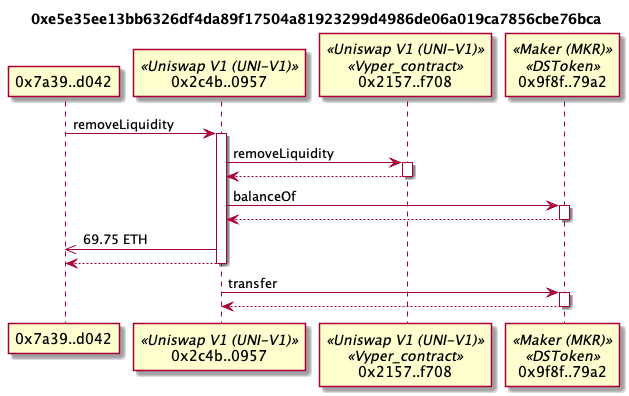
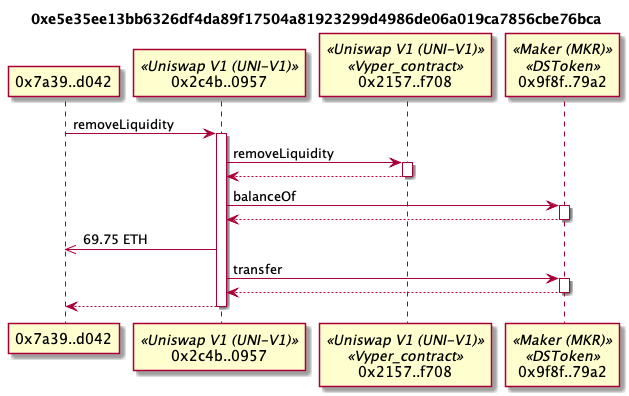
Fixed extra return after value transfer

diff --git a/src/ts/__tests__/plantUmlGenerator.test.ts b/src/ts/__tests__/plantUmlGenerator.test.ts
@@ -44,8 +44,7 @@ describe("Plant UML generator", () => {
     const plantUml = genParticipants(testContracts)
     console.log(plantUml)
     expect(plantUml).toEqual(
-      "\n" +
-        'participant "0x0000..1111" as 00001111\n' +
+      '\nparticipant "0x0000..1111" as 00001111 \n' +
         'participant "0x1111..2222" as 11112222 <<KyberNetworkProxy>>\n' +
         'participant "0x2222..3333" as 22223333 <<KyberNetwork>>\n' +
         'participant "0x3333..4444" as 33334444 <<Tether USD>>\n'
@@ -394,6 +393,54 @@ describe("Plant UML generator", () => {
           "33334444 -> 22223333: third\n" +
           "activate 22223333\n" +
           "return\n" +
+          "return\n" +
+          "return\n"
+      )
+    })
+    test("0->1->>0 1->2", () => {
+      const messages: Message[] = [
+        {
+          ...baseMessage,
+          from: "0x0000324fd7df8b2a969969bcc3663d74f0581111",
+          to: "0x11116FECD516Ecc3849DAf6845e3EC8680872222",
+          callDepth: 0,
+          payload: {
+            ...basePayload,
+            funcName: "first call"
+          }
+        },
+        {
+          ...baseMessage,
+          from: "0x11116FECD516Ecc3849DAf6845e3EC8680872222",
+          to: "0x0000324fd7df8b2a969969bcc3663d74f0581111",
+          callDepth: 1,
+          id: 1,
+          payload: {
+            ...basePayload
+          },
+          type: MessageType.Value,
+          value: BigInt(1100000000000000000)
+        },
+        {
+          ...baseMessage,
+          from: "0x11116FECD516Ecc3849DAf6845e3EC8680872222",
+          to: "0x22226FECD516Ecc3849DAf6845e3EC8680873333",
+          callDepth: 1,
+          id: 2,
+          payload: {
+            ...basePayload,
+            funcName: "third call"
+          }
+        }
+      ]
+      const plantUml = genMessages(messages)
+      console.log(plantUml)
+      expect(plantUml).toEqual(
+        "\n00001111 -> 11112222: first call\n" +
+          "activate 11112222\n" +
+          "11112222 ->> 00001111: 1.10 ETH\n" +
+          "11112222 -> 22223333: third call\n" +
+          "activate 22223333\n" +
           "return\n" +
           "return\n"
       )

diff --git a/src/ts/plantUmlGenerator.ts b/src/ts/plantUmlGenerator.ts
@@ -81,6 +81,7 @@ export const genMessages = (
         }
       }
     }
+
     if (
       message.type === MessageType.Call ||
       message.type === MessageType.Create
@@ -114,11 +115,15 @@ export const genMessages = (
       plantUml += `${participantId(message.from)} ${genArrow(
         message
       )} ${participantId(message.to)}: ${ethers.toFormat(2)} ETH\n`
+      // we want to avoid a return in the next loop so setting previous message from field so no returns are printed
+      previousMessage.to = message.from
+      continue
     } else if (message.type === MessageType.Selfdestruct) {
       plantUml += `return selfdestruct\n`
       // selfdestruct is the return so pop the previous contract call
       contractCallStack.pop()
     }
+
     previousMessage = message
   }
   contractCallStack.reverse().forEach(() => {
